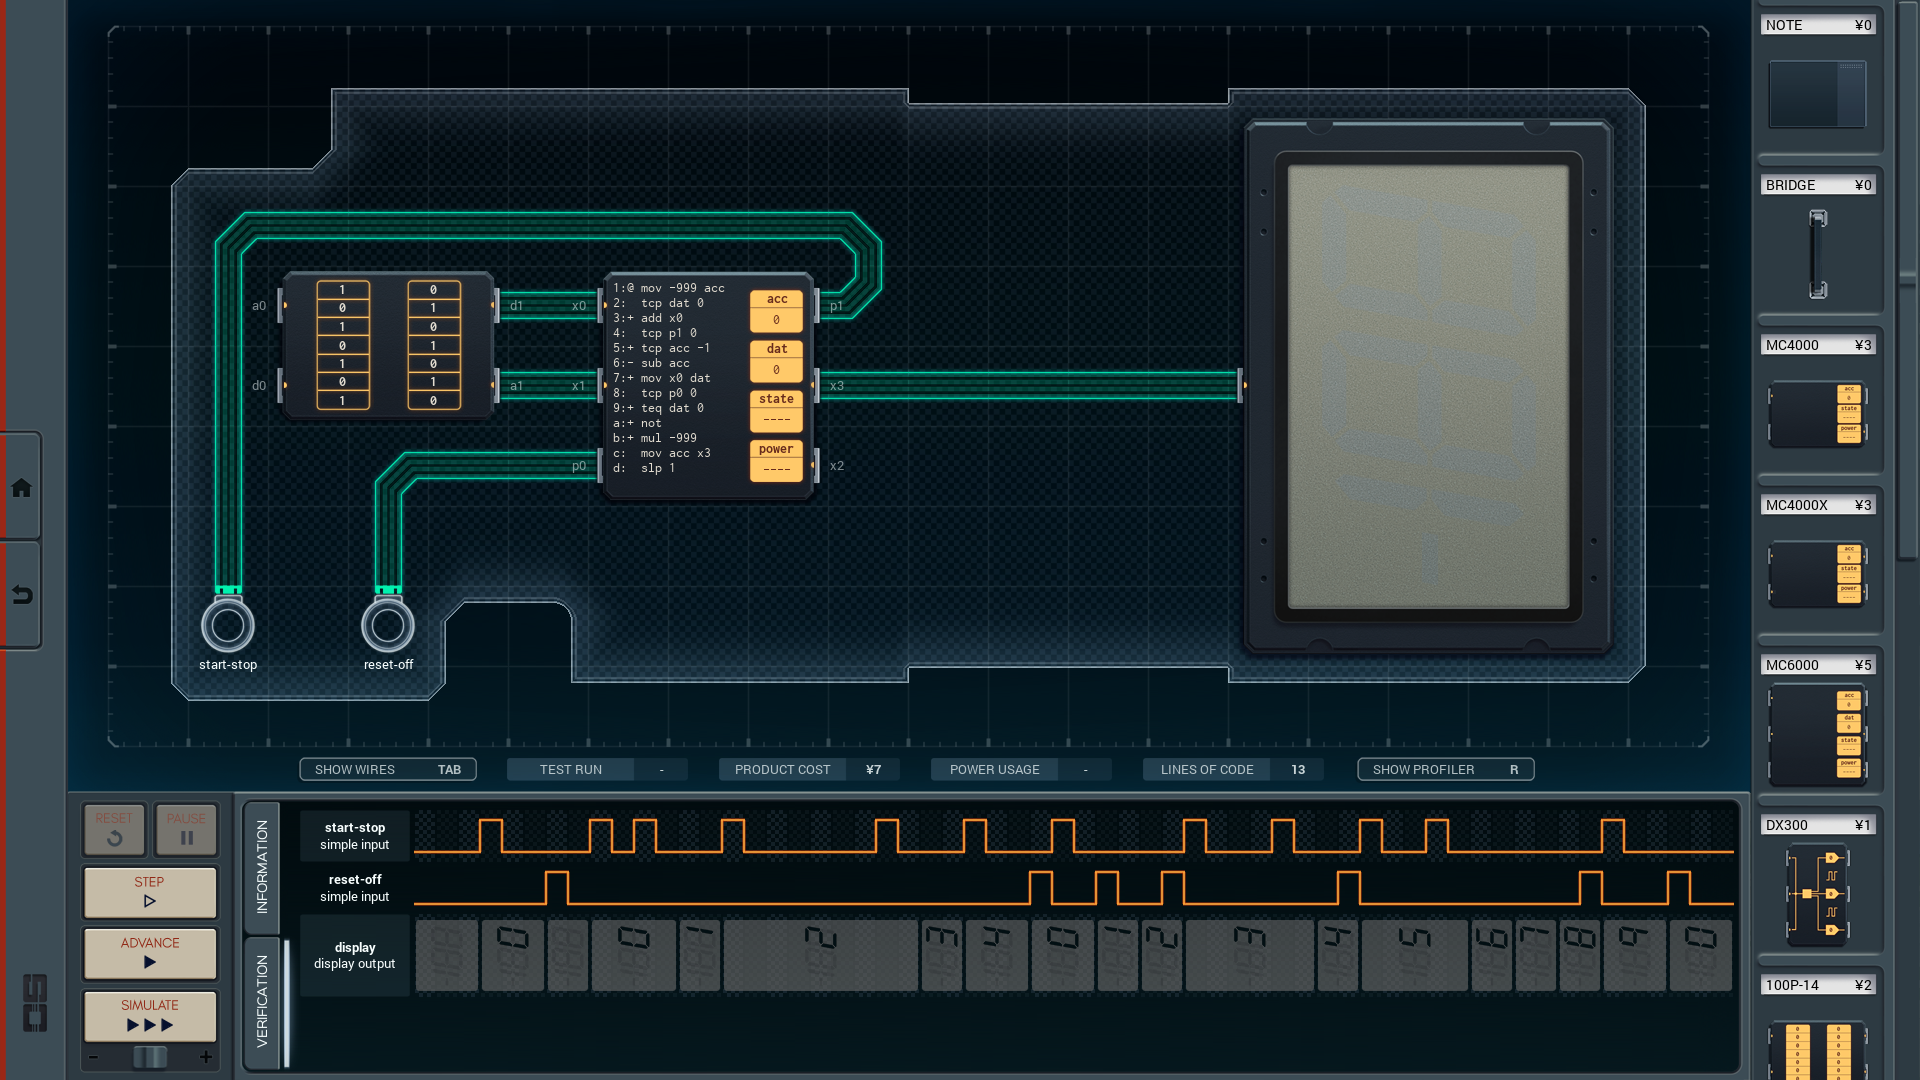
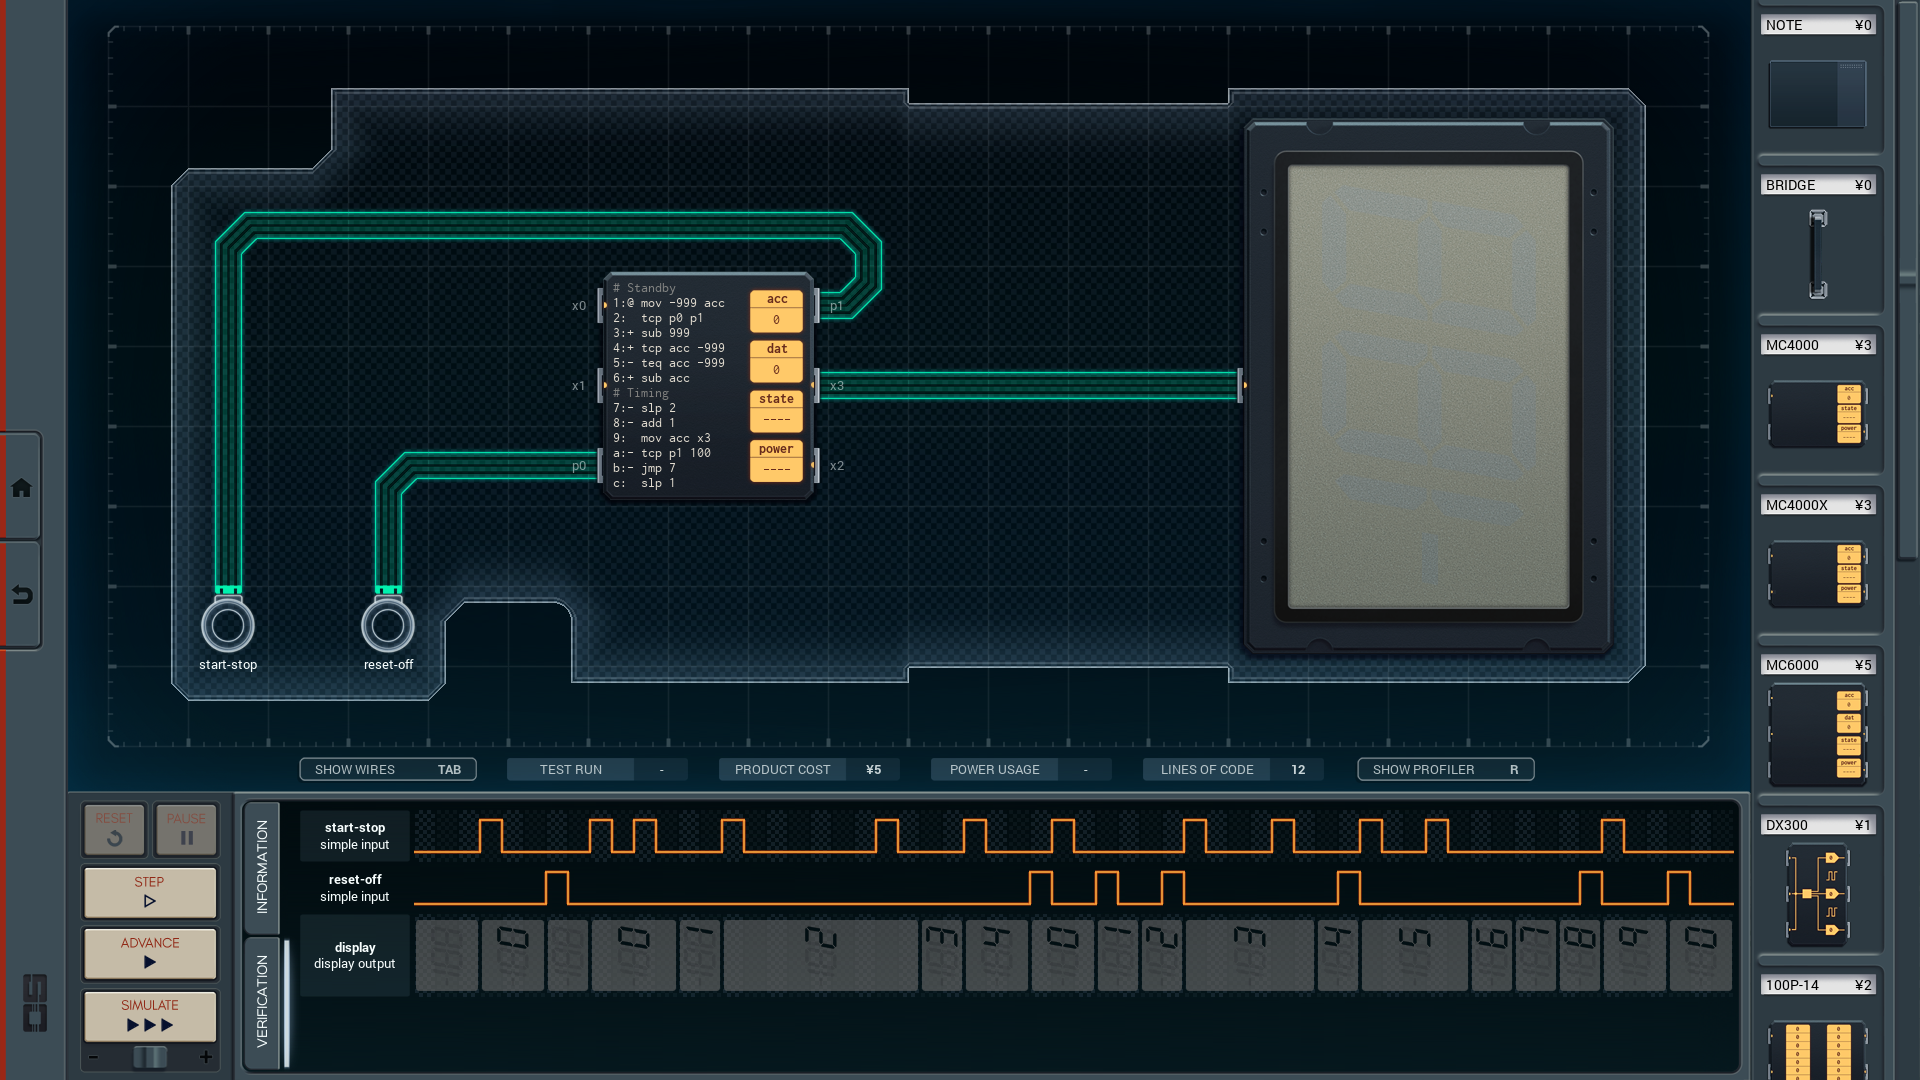
2023/03/14 Optimized the Scientific Chronometer solution [BEF] 7C / 375P / 13L [AFT] 5C / 188P / 12L

Changed region(s): [[0.125, 0.2444, 0.375, 0.4278]]

diff --git a/033-scientific-chronometer/README.md b/033-scientific-chronometer/README.md
@@ -1,4 +1,4 @@
-7/375/13 SOLUTION
+5/188/12 SOLUTION
 -----------------
 
 ![screenshot0](https://github.com/shiawasenahikari/Shenzhen-IO-Solutions/blob/master/033-scientific-chronometer/screenshot0.png)
